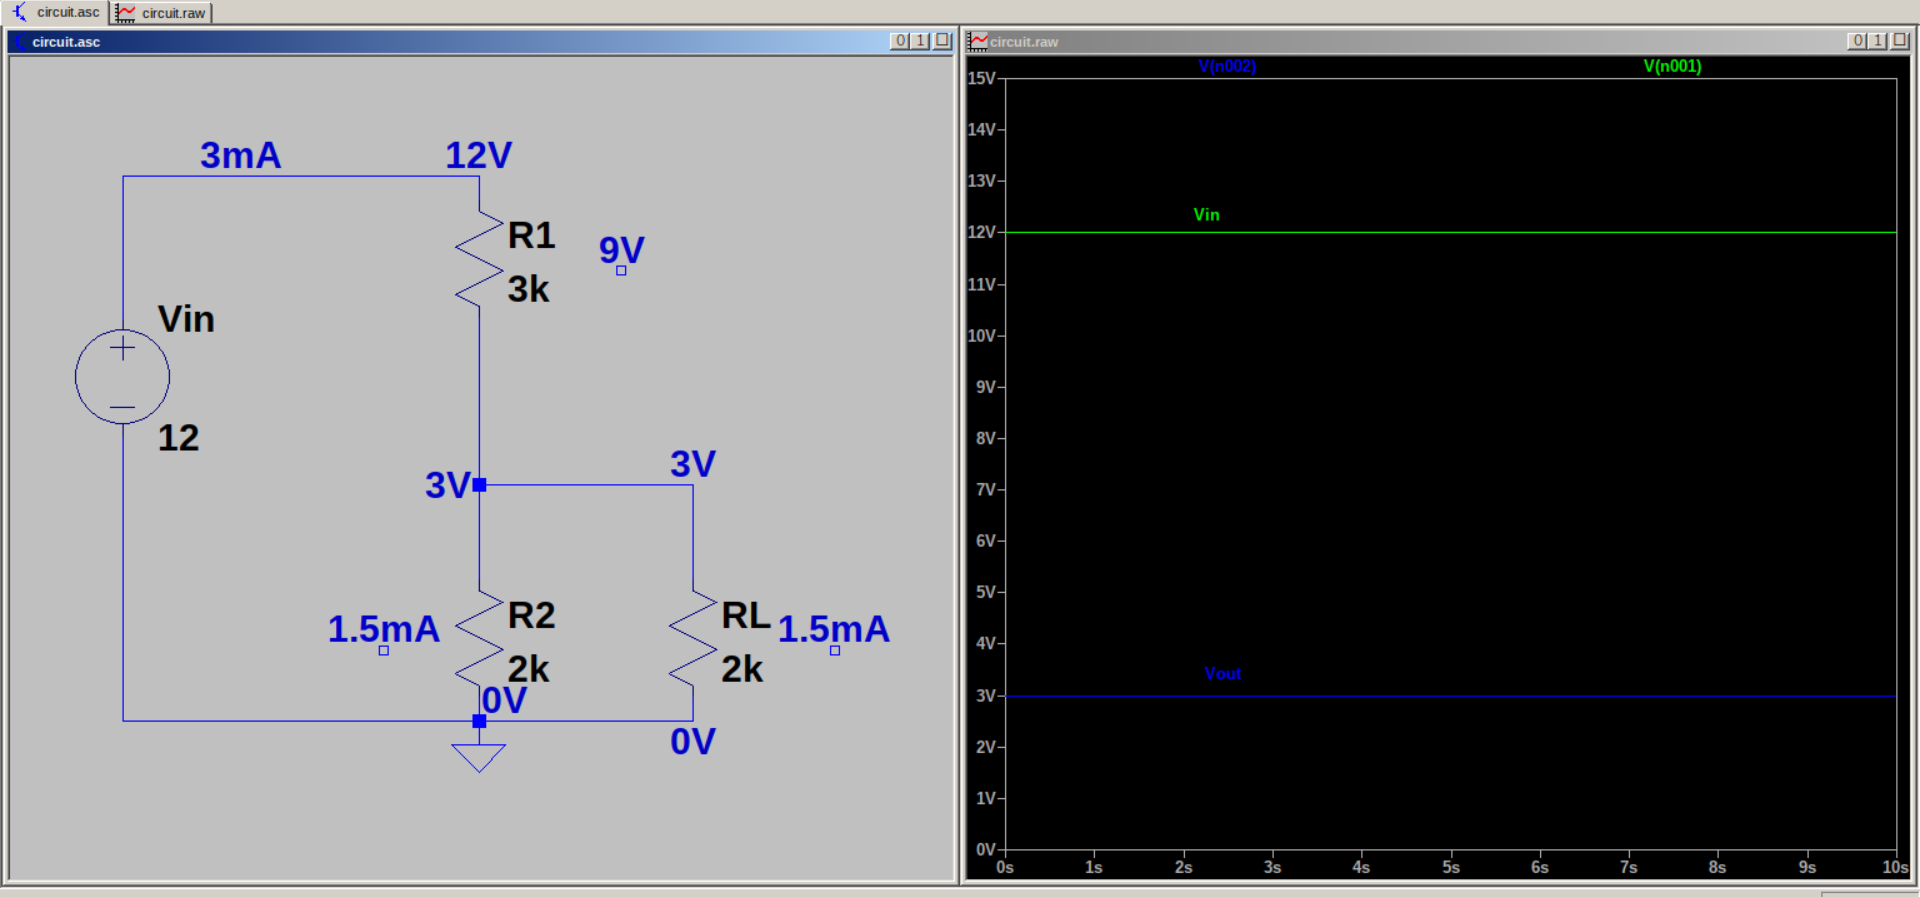
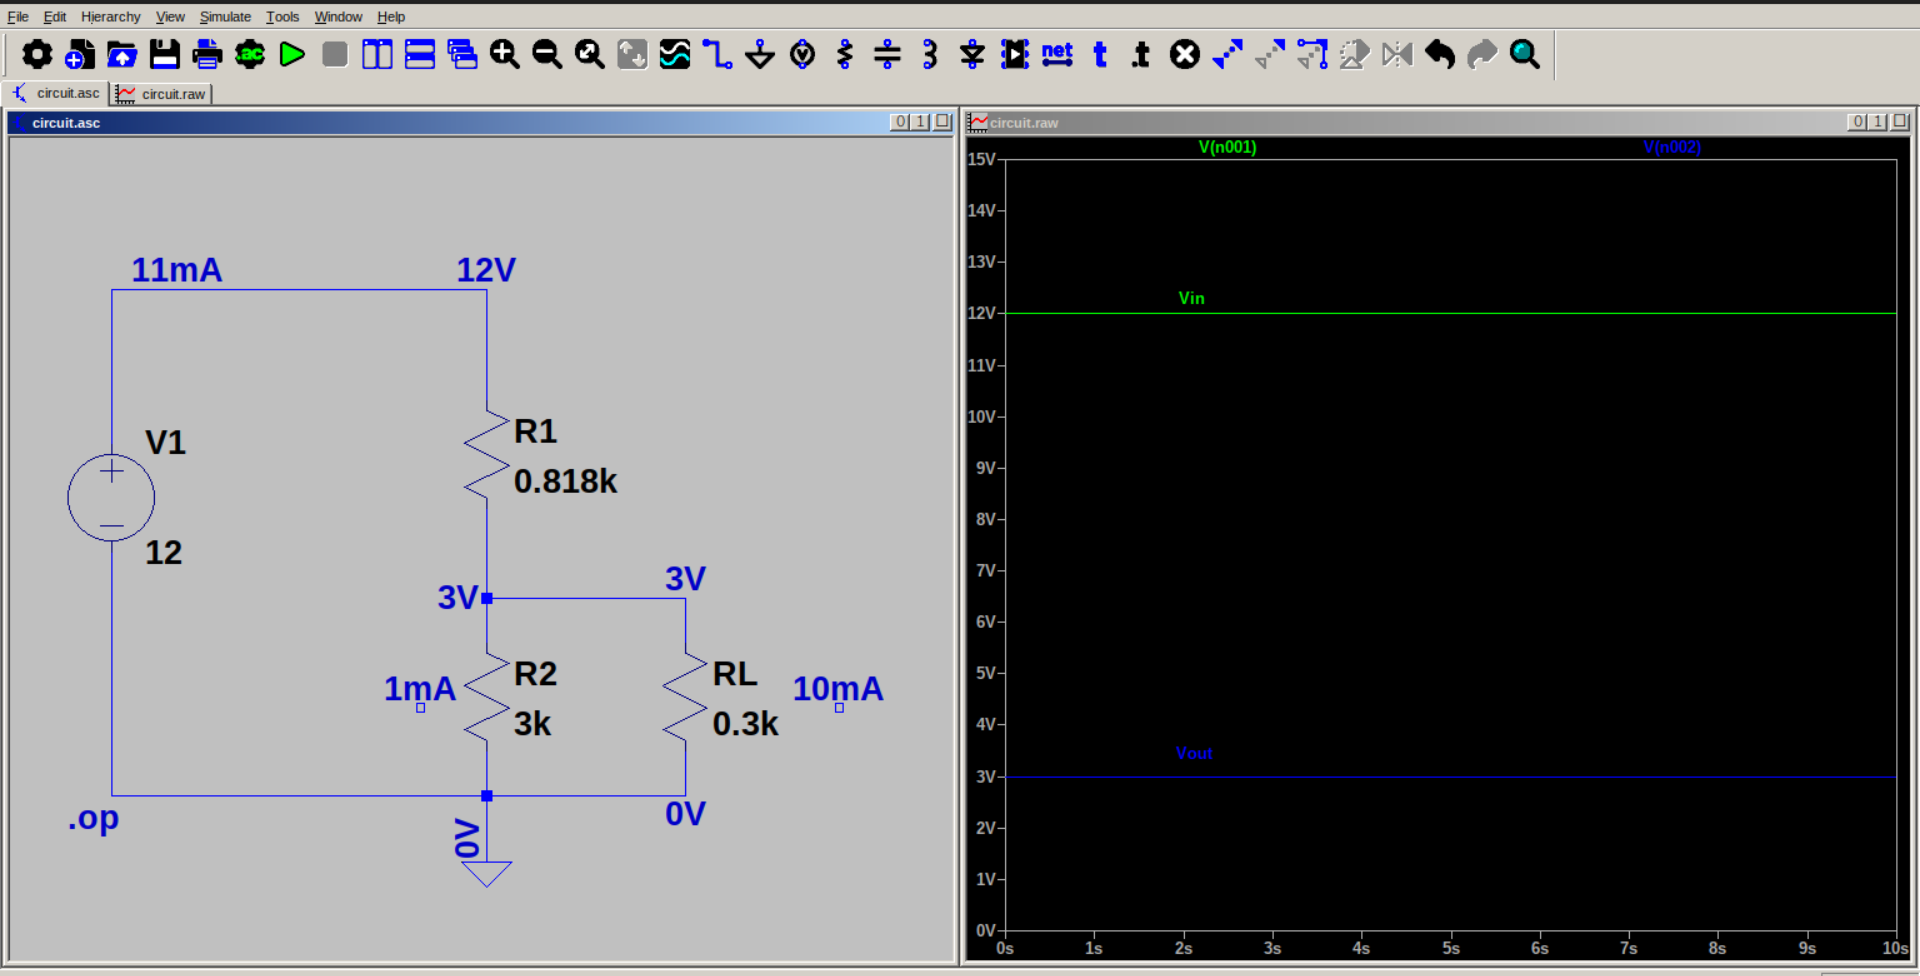
Update with load voltage divider with 10 percent rule

diff --git a/voltage-divider/with-load/README.md b/voltage-divider/with-load/README.md
@@ -9,6 +9,16 @@ The equation for output voltage when no load is attached is given by,
 
 $$Vout = Vin.R2/R1+R2$$
 
-However, in this circuit, a load is attached. When a load RL is attached, it causes the effective resistance of the lower arm to change, and as a result the current drawn from the voltage source changes. Hence we dont get the output voltage we expected. So while calculating the resistances, we must keep these things in mind.
+However, when a load is attached, it can draw current from the circuit, causing the output voltage to change. This is called loading effect. To reduce loading effect, and get the desired output voltage, we use a rule of thumb called _10% rule_.
 
-In this circuit, the goal is to step down input voltage of 12 V to output voltage of 3 V. For this, the ratio of resistors must be $Rbottom/R1 = 1/3$. In this example we take $R1 = 3k$ and $Rbottom = 1k$. For Rbottom to be 1k, R2 || RL should be equal to 1k. For simplicity, I have chosen $R2 = 2k$ and $RL = 2k$. Therefore, we get output voltage of 3 V across load resistor RL. 
+In this circuit, we are trying to build a voltage divider that steps down 12 V to 3 V. We have also connected a load, which draws 10 mA. So, by 10% rule, we will assume $I2 = 0.1I_{load}$. 
+
+We can calculate R_{load} using Ohm's Law, and we get $R_{load} = 0.3k$. By 10% rule, $R2 = 10R_{load}$. 
+
+While applying this rule, we call I2 and R2 as bleeding current and bleeding resistance. 
+
+So, since we got I2 and I_{load}, total current = I2 + I_{load}. And then we can calculate R1 by Ohm's Law.
+
+Because this is a rule of thumb, the current and voltage values will be approximate.
+
+A benefit of applying this rule is, we can minimise power wastage through divider (only a small current passes through R2). 
